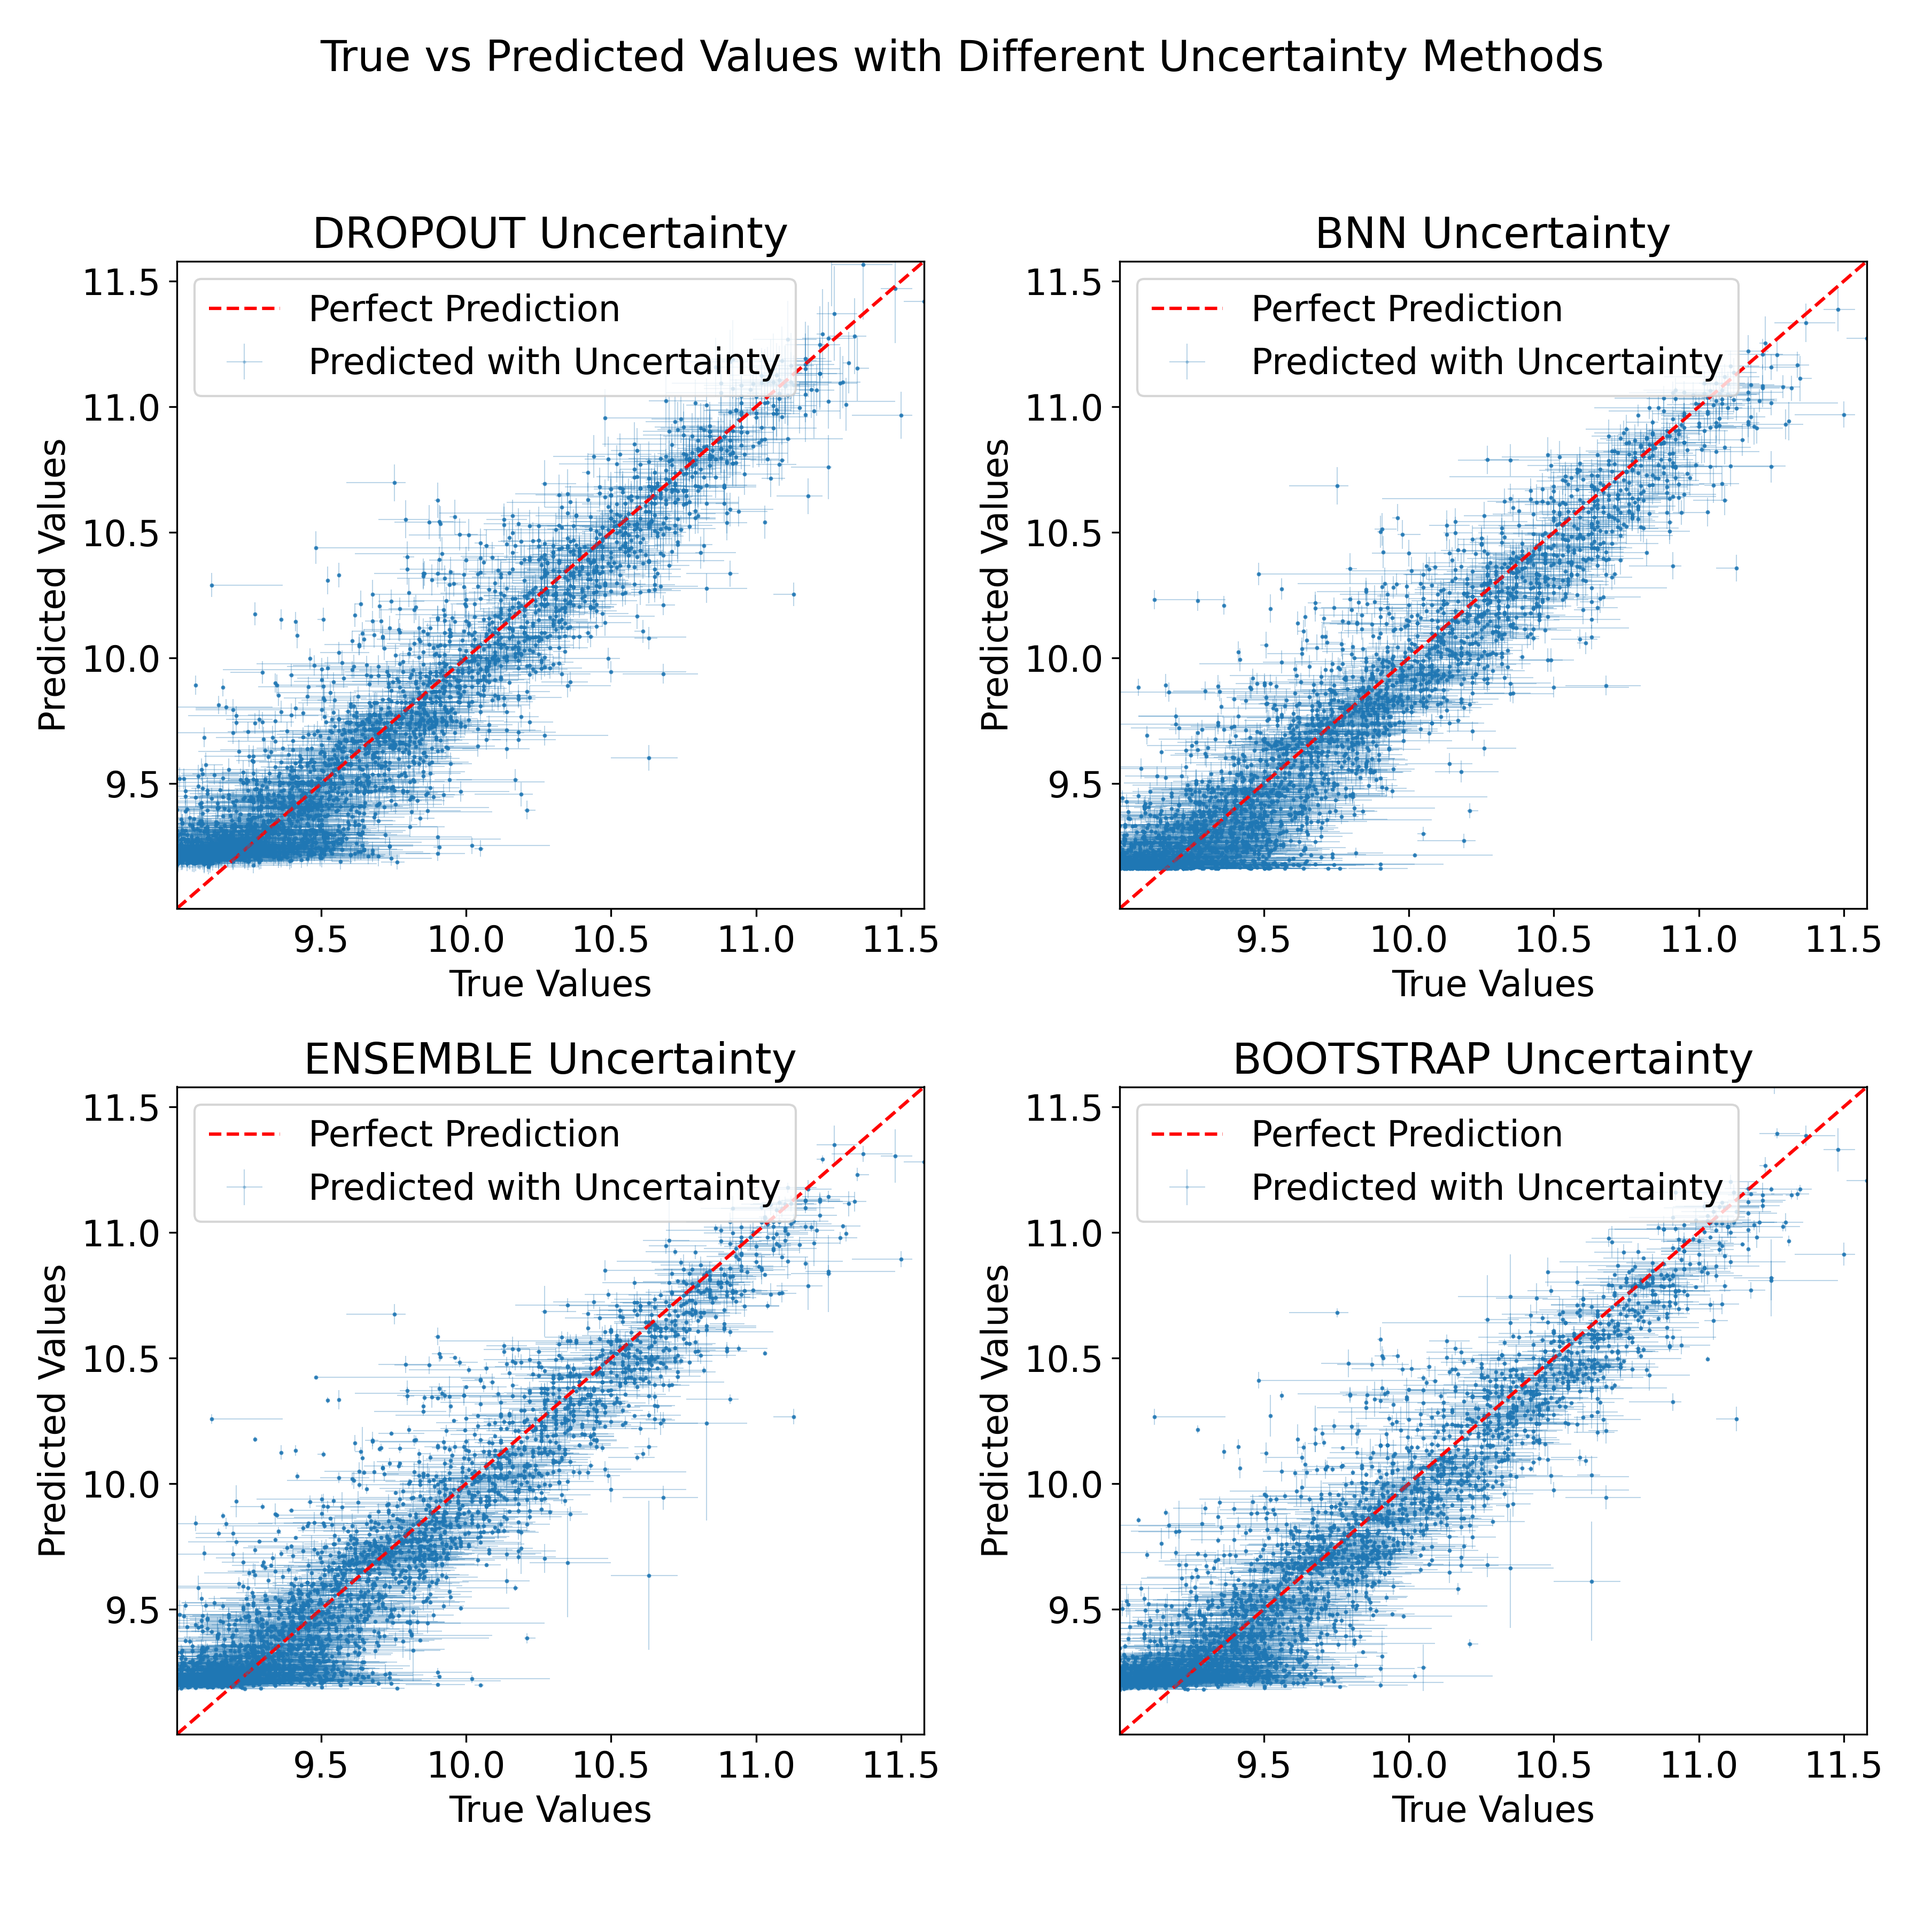
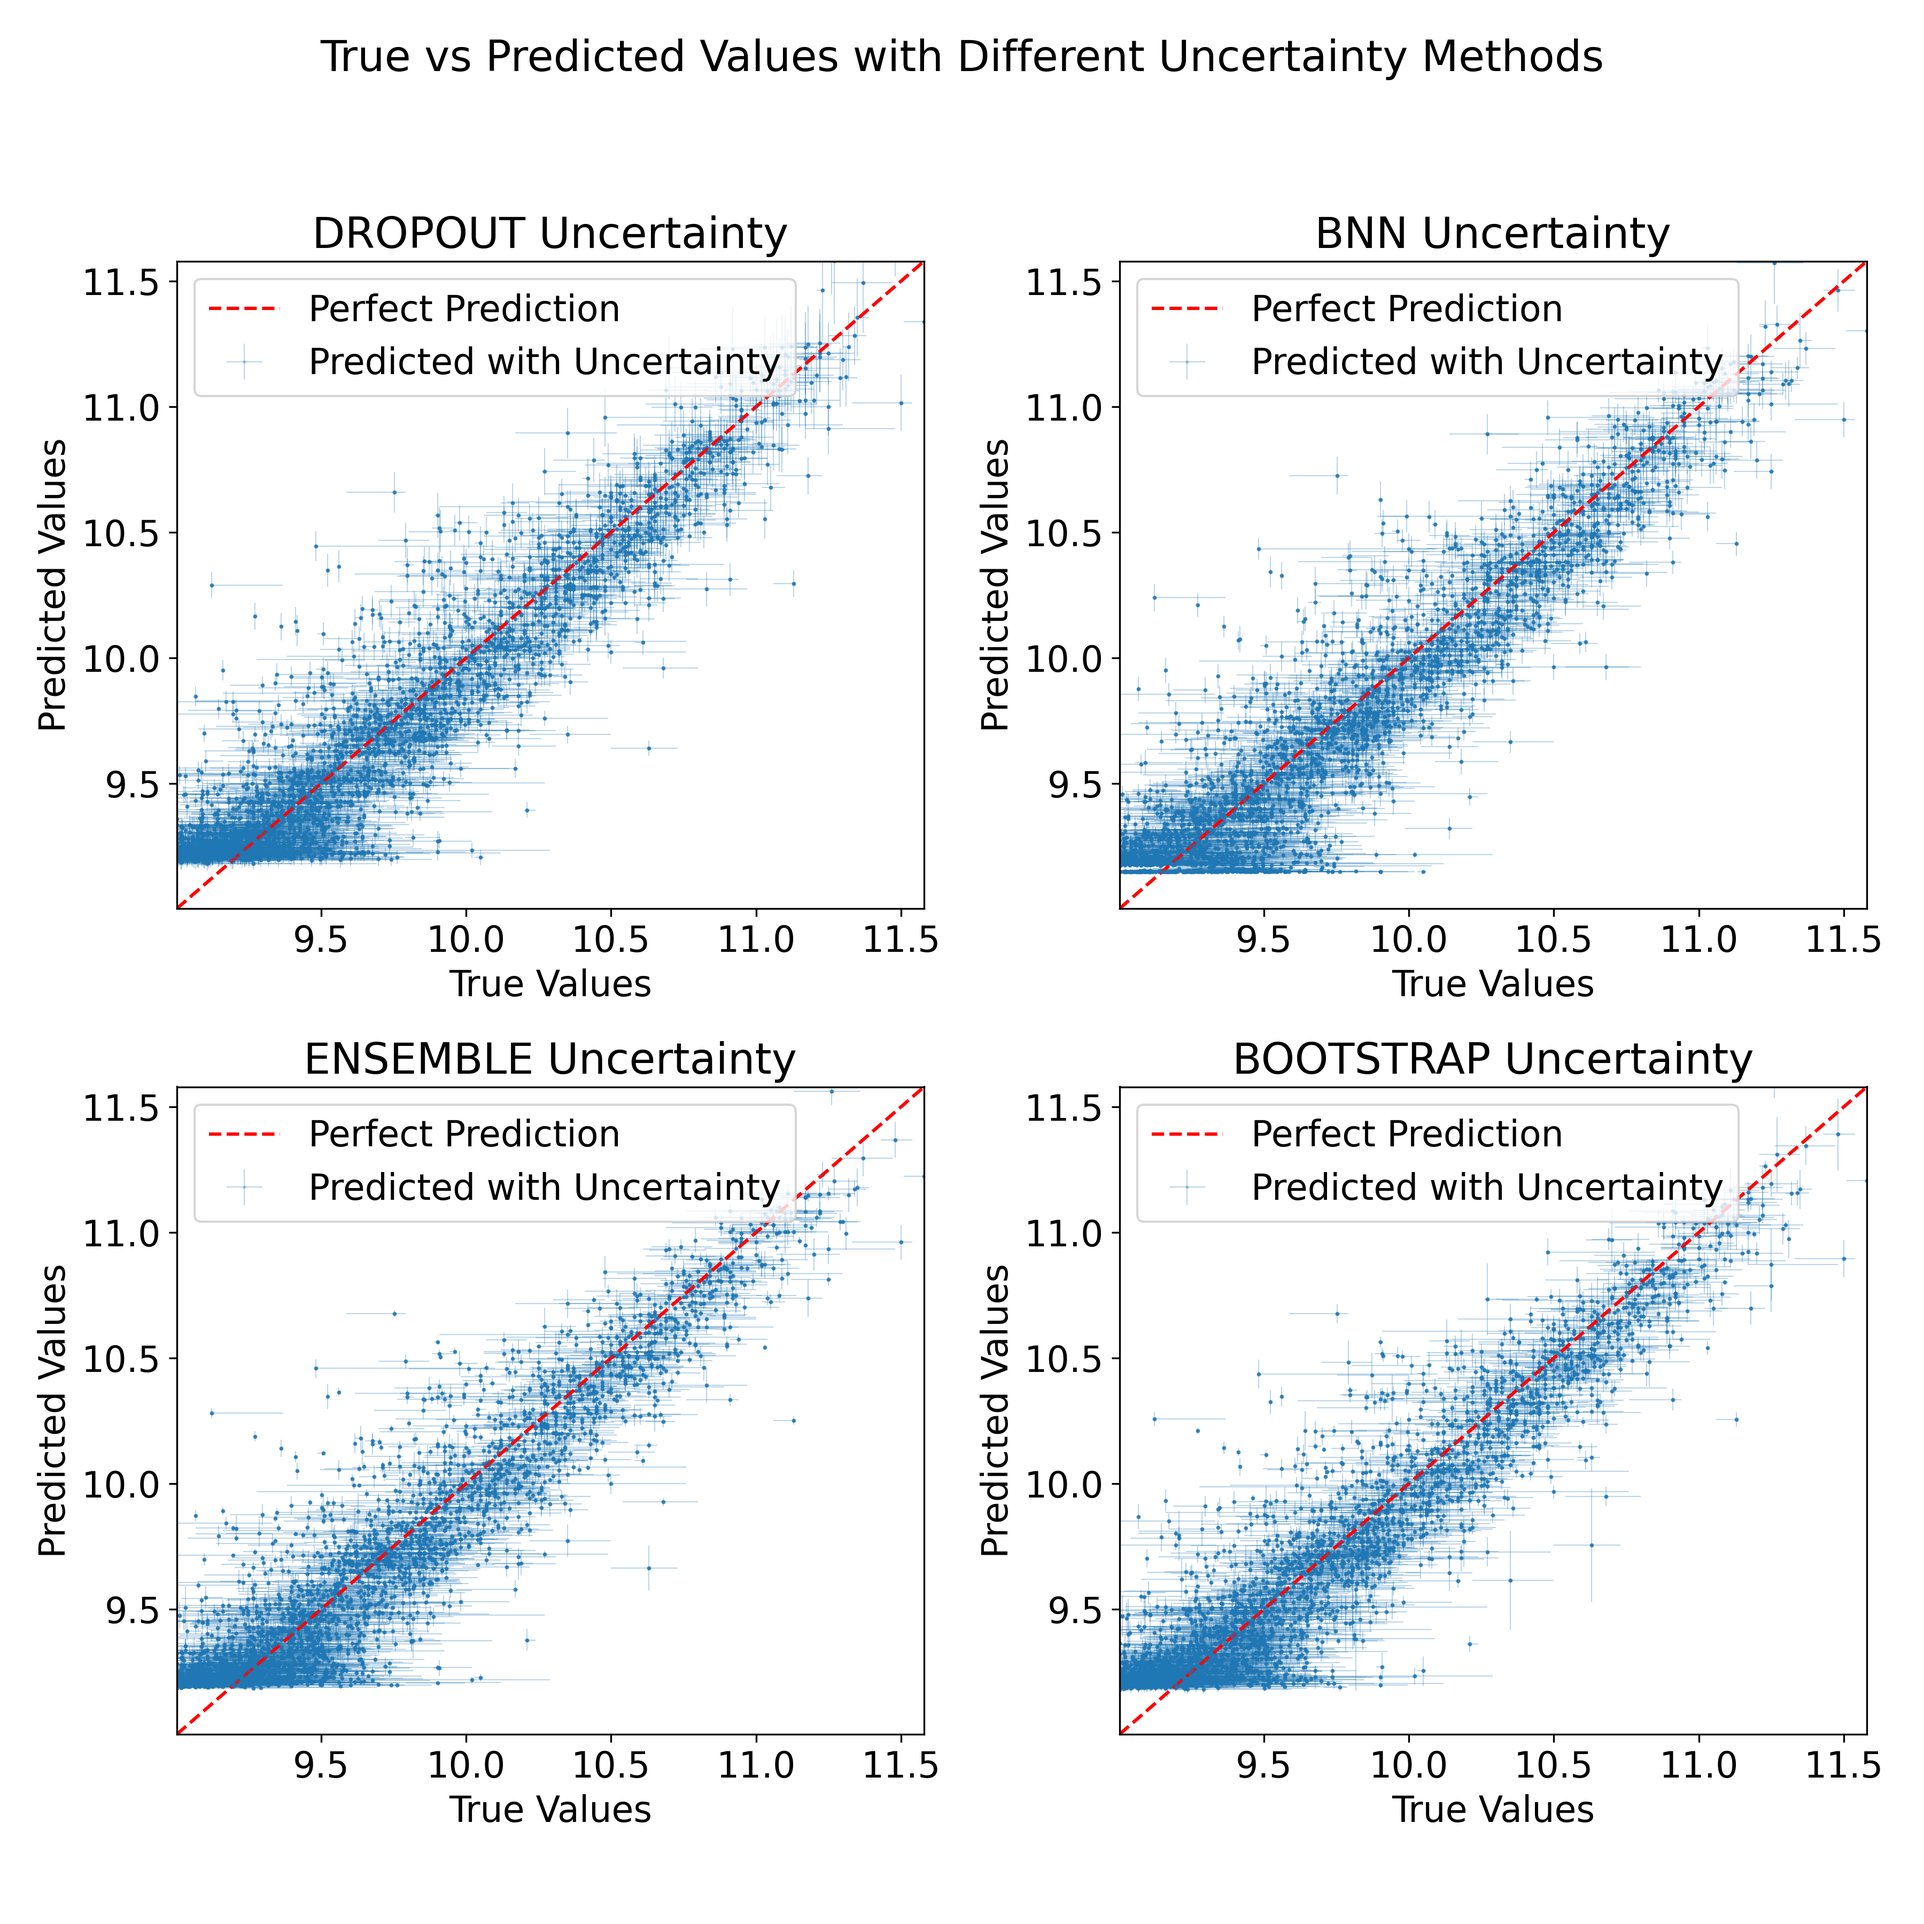
Add files via terminal

diff --git a/uncertainty_model.py b/uncertainty_model.py
@@ -12,7 +12,7 @@ from keras.preprocessing.image import ImageDataGenerator
 class UncertaintyModel:
     """Class to define and train the Keras model with uncertainty estimation."""
 
-    def __init__(self, input_shape, model_type="dropout", n_ensemble=3, n_bootstrap=3):
+    def __init__(self, input_shape, model_type="dropout", n_ensemble=5, n_bootstrap=5):
         """
         Initialize the model with specified model type.
         

diff --git a/README.md b/README.md
@@ -1,4 +1,4 @@
-# Uncertainty Quantification for Galaxy Mass
+# Uncertainty Quantification for Galaxy Properties
 
 This project analyzes James Webb Space Telescope (JWST) images using deep learning models to estimate galaxy properties and quantify uncertainty. The code includes data preprocessing, model training with various uncertainty estimation methods, and visualization of results.
 
